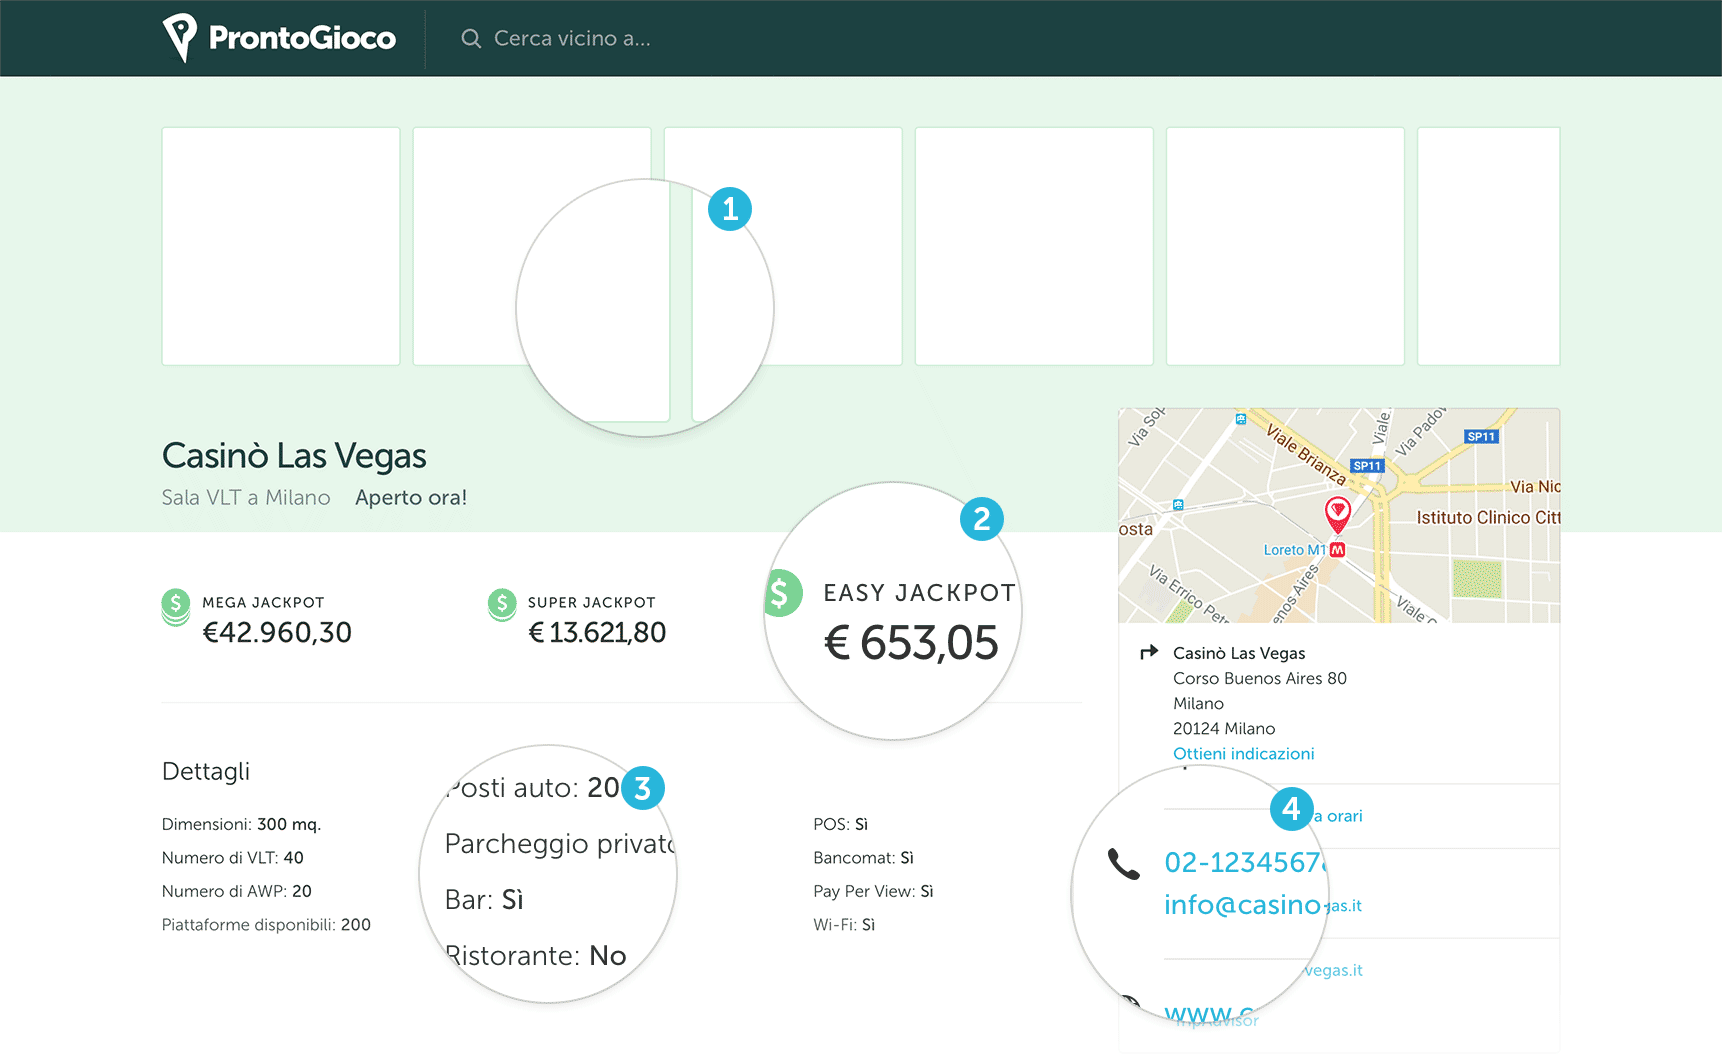
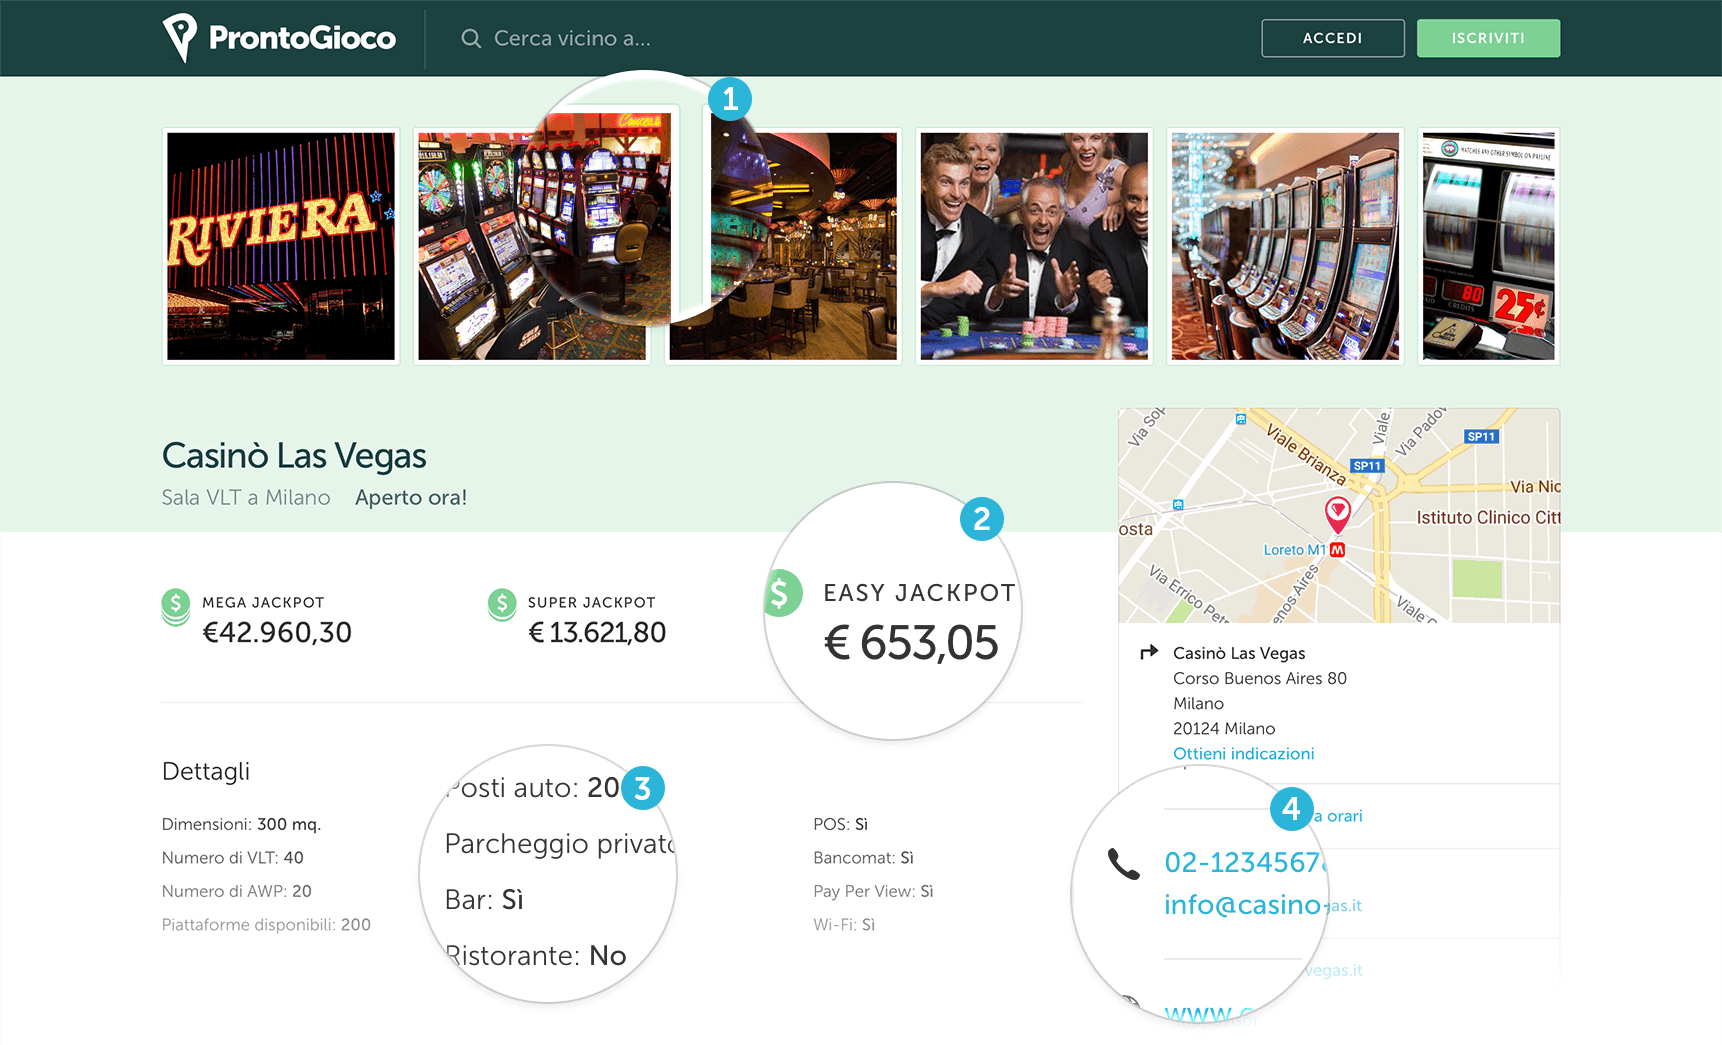
Aggiunte le immagini allo screenshot nella pagina di promozione/rivendicazione

diff --git a/resources/assets/sass/app/pages/_detail.scss b/resources/assets/sass/app/pages/_detail.scss
@@ -57,7 +57,7 @@
 		justify-content: center;
 		text-decoration: none;
 		color: grayscale(500);
-		transition: $transition-base, width 0, height 0;
+		transition: $transition-base, width 0ms, height 0ms;
 
 		&:hover,
 		&:focus {

diff --git a/resources/views/site/promote.blade.php b/resources/views/site/promote.blade.php
@@ -48,15 +48,15 @@
 			<div class="section mb-5">
 				<h2 class="section-title text-center">Quanto costa?</h2>
 				<p>Assolutamente nulla! {{ config('app.name') }} offre diversi livelli di personalizzazione; <strong>aggiungere un'attività o rivendicarla per inserire le informazioni essenziali è assolutamente gratuito</strong>; non spenderai niente, a parte pochi minuti del tuo tempo.</p>
-				<p>Se invece desideri evidenziare la tua attività e farla trovare più facilmente di quelle dei tuoi concorrenti, scrivici per provare uno dei nostri piani premium a prezzi di lancio molto vantaggiosi.</p>
+				<p>Se invece desideri evidenziare la tua attività e farla trovare più facilmente di quelle dei tuoi concorrenti, <a href="mailto:{{ config('constants.email.venues') }}"><strong>scrivici</strong></a> per provare uno dei nostri piani premium a prezzi di lancio molto vantaggiosi.</p>
 			</div>
 
 			<div class="section my-5">
 				<h2 class="section-title text-center">Che aspetti? Inizia subito!</h2>
 				<p>Se sei ancora indeciso, non dovresti esserlo. Aggiungere o rivendicare la tua attività porterà soltanto benefici. Il nostro staff si occuperà di tutto il necessario per aggiornare i dati, e in futuro potrai anche modificarli in autonomia!</p>
-				<p>Se hai già trovato la tua attività su {{ config('app.name') }}, fai click su “<strong>Rivendica attività</strong>” nella pagina con i dettagli per contattarci. Altrimenti scrivi all'indirizzo <a href="{{ $contactHref }}"><strong>{{ config('constants.email.venues') }}</strong></a> ricordandoti di specificare il nome dell'attività e l'indirizzo. <strong>In entrambi i casi sarai ricontattato prima possibile dal nostro staff.</strong></p>
+				<p>Se hai già trovato la tua attività su {{ config('app.name') }}, fai click su “<strong>Rivendica attività</strong>” nella pagina con i dettagli per contattarci. Altrimenti scrivi all'indirizzo <a href="mailto:{{ config('constants.email.venues') }}"><strong>{{ config('constants.email.venues') }}</strong></a> ricordandoti di specificare il nome dell'attività e l'indirizzo. <strong>In entrambi i casi sarai ricontattato prima possibile dal nostro staff.</strong></p>
 				<p class="text-center my-5">
-					<a href="{{ $contactHref }}" class="btn btn-lg btn-primary">Contattaci</a>
+					<a href="mailto:{{ config('constants.email.venues') }}" class="btn btn-lg btn-primary">Contattaci</a>
 				</p>
 			</div>
 		</div>

diff --git a/app/Http/Controllers/Site/PromoteController.php b/app/Http/Controllers/Site/PromoteController.php
@@ -9,12 +9,6 @@ use App\Http\Controllers\Controller;
 class PromoteController extends Controller
 {
 	public function index() {
-		$contactHref = implode('', [
-			'mailto:',
-			config('constants.email.venues'),
-			'?subject=',
-			rawurlencode('Rivendicazione attività')
-		]);
 		return view('site.promote', compact('contactHref'));
 	}
 }
